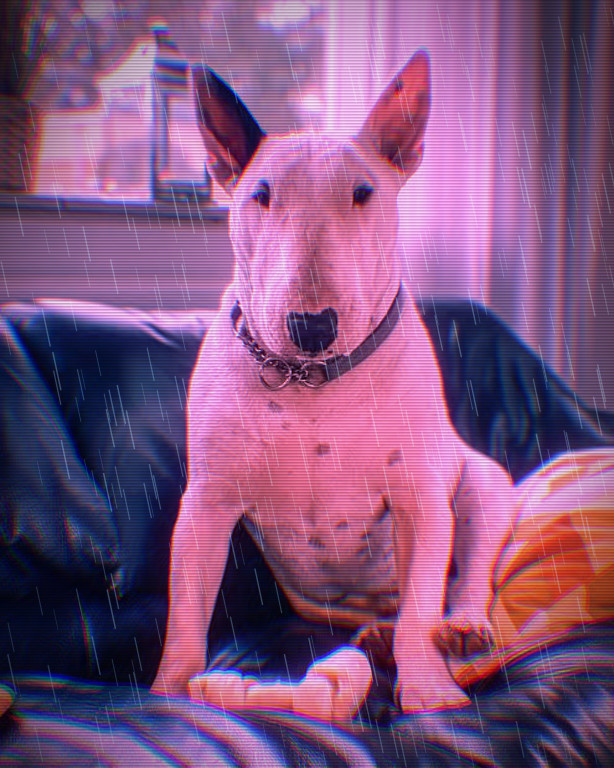
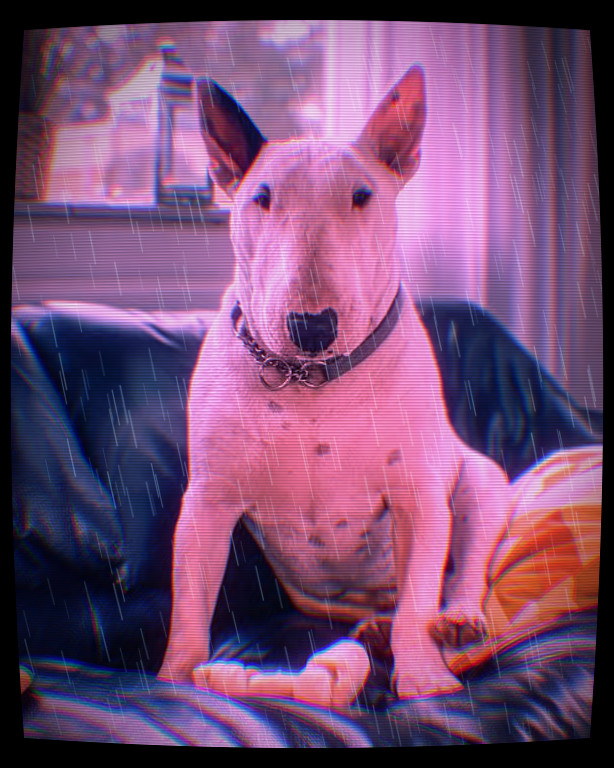
feat(examples): add the double-exposure look and a CRT to two looks
Double exposure is the first look to use a second picture: a night sky of aurora and stars,
made by the library, multiplied into the dog's silhouette. Terminal now sits on a curved CRT
screen with a shadow mask, and cyberpunk gains the curved glass. The notes that said these looks
would gain pieces later no longer say so; vaporwave's grid is an effect, not a picture, so
blend modes do not apply to it.

diff --git a/README.md b/README.md
@@ -67,9 +67,9 @@ Every picture here is made from one photo by the recipe linked under it (`exampl
     <td align="center" width="20%"><img src="examples/output/bullterrier/northern-lights.jpg" alt="northern-lights"></td>
   </tr>
   <tr>
-    <td valign="top"><a href="examples/recipes/cyberpunk.toml"><b>cyberpunk</b></a><br><sub>A neon night street: magenta and violet grade, colour fringes, scanlines, a glow and rain. Would gain a CRT curve (batch 6) and neon edges (batch 8).<br><code>split_tone</code> <code>chromatic_aberration</code> <code>scanlines</code> <code>bloom</code> <code>rain</code> <code>vignette</code></sub></td>
-    <td valign="top"><a href="examples/recipes/vaporwave.toml"><b>vaporwave</b></a><br><sub>A sunset gradient with a grid behind a duotoned dog, split into colour ghosts. Would gain blend modes for the grid.<br><code>gradient</code> <code>pattern</code> <code>gradient_map</code> <code>rgb_split</code></sub></td>
-    <td valign="top"><a href="examples/recipes/terminal.toml"><b>terminal</b></a><br><sub>The photo as a green phosphor terminal: characters, scanlines and glow. Would gain a CRT curve and flicker (batch 6).<br><code>clarity</code> <code>ascii</code> <code>scanlines</code> <code>bloom</code> <code>vignette</code></sub></td>
+    <td valign="top"><a href="examples/recipes/cyberpunk.toml"><b>cyberpunk</b></a><br><sub>A neon night street: magenta and violet grade, colour fringes, scanlines, a glow, rain and the curved glass of a tube. Would gain neon edges (batch 8).<br><code>split_tone</code> <code>chromatic_aberration</code> <code>scanlines</code> <code>bloom</code> <code>rain</code> <code>vignette</code> <code>crt</code></sub></td>
+    <td valign="top"><a href="examples/recipes/vaporwave.toml"><b>vaporwave</b></a><br><sub>A sunset gradient with a grid behind a duotoned dog, split into colour ghosts.<br><code>gradient</code> <code>pattern</code> <code>gradient_map</code> <code>rgb_split</code></sub></td>
+    <td valign="top"><a href="examples/recipes/terminal.toml"><b>terminal</b></a><br><sub>The photo as a green phosphor terminal: characters on a curved CRT screen with a shadow mask, scanlines and glow.<br><code>clarity</code> <code>ascii</code> <code>crt</code></sub></td>
     <td valign="top"><a href="examples/recipes/newsprint.toml"><b>newsprint</b></a><br><sub>A newspaper clipping: black and white dots on off-white paper with a torn edge. Would gain CMYK dots (batch 7) and a faded sepia (the sepia preset of gradient_map).<br><code>black_and_white</code> <code>clarity</code> <code>levels</code> <code>halftone</code> <code>paper_texture</code> <code>torn_edge</code></sub></td>
     <td valign="top"><a href="examples/recipes/northern-lights.toml"><b>northern-lights</b></a><br><sub>The dog under a night sky: aurora curtains and stars behind, a cold tint on the fur, a rim of aurora light on the edge, a soft glow.<br><code>aurora</code> <code>starfield</code> <code>split_tone</code> <code>rim_light</code> <code>bloom</code> <code>grain</code></sub></td>
   </tr>
@@ -77,11 +77,13 @@ Every picture here is made from one photo by the recipe linked under it (`exampl
     <td align="center" width="20%"><img src="examples/output/bullterrier/sticker.jpg" alt="sticker"></td>
     <td align="center" width="20%"><img src="examples/output/bullterrier/portrait-pop.jpg" alt="portrait-pop"></td>
     <td align="center" width="20%"><img src="examples/output/bullterrier/evaporate.jpg" alt="evaporate"></td>
+    <td align="center" width="20%"><img src="examples/output/bullterrier/double-exposure.jpg" alt="double-exposure"></td>
   </tr>
   <tr>
     <td valign="top"><a href="examples/recipes/sticker.toml"><b>sticker</b></a><br><sub>A die-cut sticker: a white border round the subject, a soft shadow under it, on a sunset gradient.<br><code>gradient</code> <code>outline</code> <code>drop_shadow</code></sub></td>
     <td valign="top"><a href="examples/recipes/portrait-pop.toml"><b>portrait-pop</b></a><br><sub>Portrait mode: the background goes grey and soft, the subject stays in colour and gets a lift.<br><code>black_and_white</code> <code>gaussian_blur</code> <code>vibrance</code> <code>vignette</code></sub></td>
     <td valign="top"><a href="examples/recipes/evaporate.toml"><b>evaporate</b></a><br><sub>The dog drawn as text, caught part-way through dispersing: the right side lets go first and is blown right and up.<br><code>grade</code> <code>clarity</code> <code>ascii</code> <code>fill</code> <code>disperse</code></sub></td>
+    <td valign="top"><a href="examples/recipes/double-exposure.toml"><b>double-exposure</b></a><br><sub>The dog in black and white with a night sky of aurora and stars multiplied into its silhouette: a second picture used by a recipe.<br><code>black_and_white</code> <code>blend</code> <code>vignette</code></sub></td>
   </tr>
 </table>
 

diff --git a/examples/README.md b/examples/README.md
@@ -22,7 +22,7 @@ uv run python examples/python_api.py
 ## Assets
 
 Recipes name a second picture by a path relative to the recipe file (`texture = "../assets/grain-texture.png"`).
-The two assets here were made with the library from the demo photo; run these from the repository root to make them again:
+The assets here were made with the library, so none carries a licence; run these from the repository root to make them again:
 
 ```bash
 # bullterrier-cutout.png: the dog on a transparent background (the alpha channel is kept)
@@ -32,4 +32,9 @@ uv run bt-image cutout examples/photos/bullterrier.jpeg -o examples/assets/bullt
 uv run python -c "import numpy as np; from bullterrier_image import imageio; imageio.save(np.full((512, 512, 3), 0.5, np.float32), 'out/grey.png')"
 uv run bt-image render out/grey.png examples/assets/grain-texture.toml -o out
 mv out/grey__grain-texture.png examples/assets/grain-texture.png
+
+# night-sky.jpg: aurora and stars (assets/night-sky.toml), made from a flat grey picture of the photo's shape
+uv run python -c "import numpy as np; from bullterrier_image import imageio; imageio.save(np.full((768, 614, 3), 0.5, np.float32), 'out/sky.png')"
+uv run bt-image render out/sky.png examples/assets/night-sky.toml -o out --format jpg
+mv out/sky__night-sky.jpg examples/assets/night-sky.jpg
 ```
